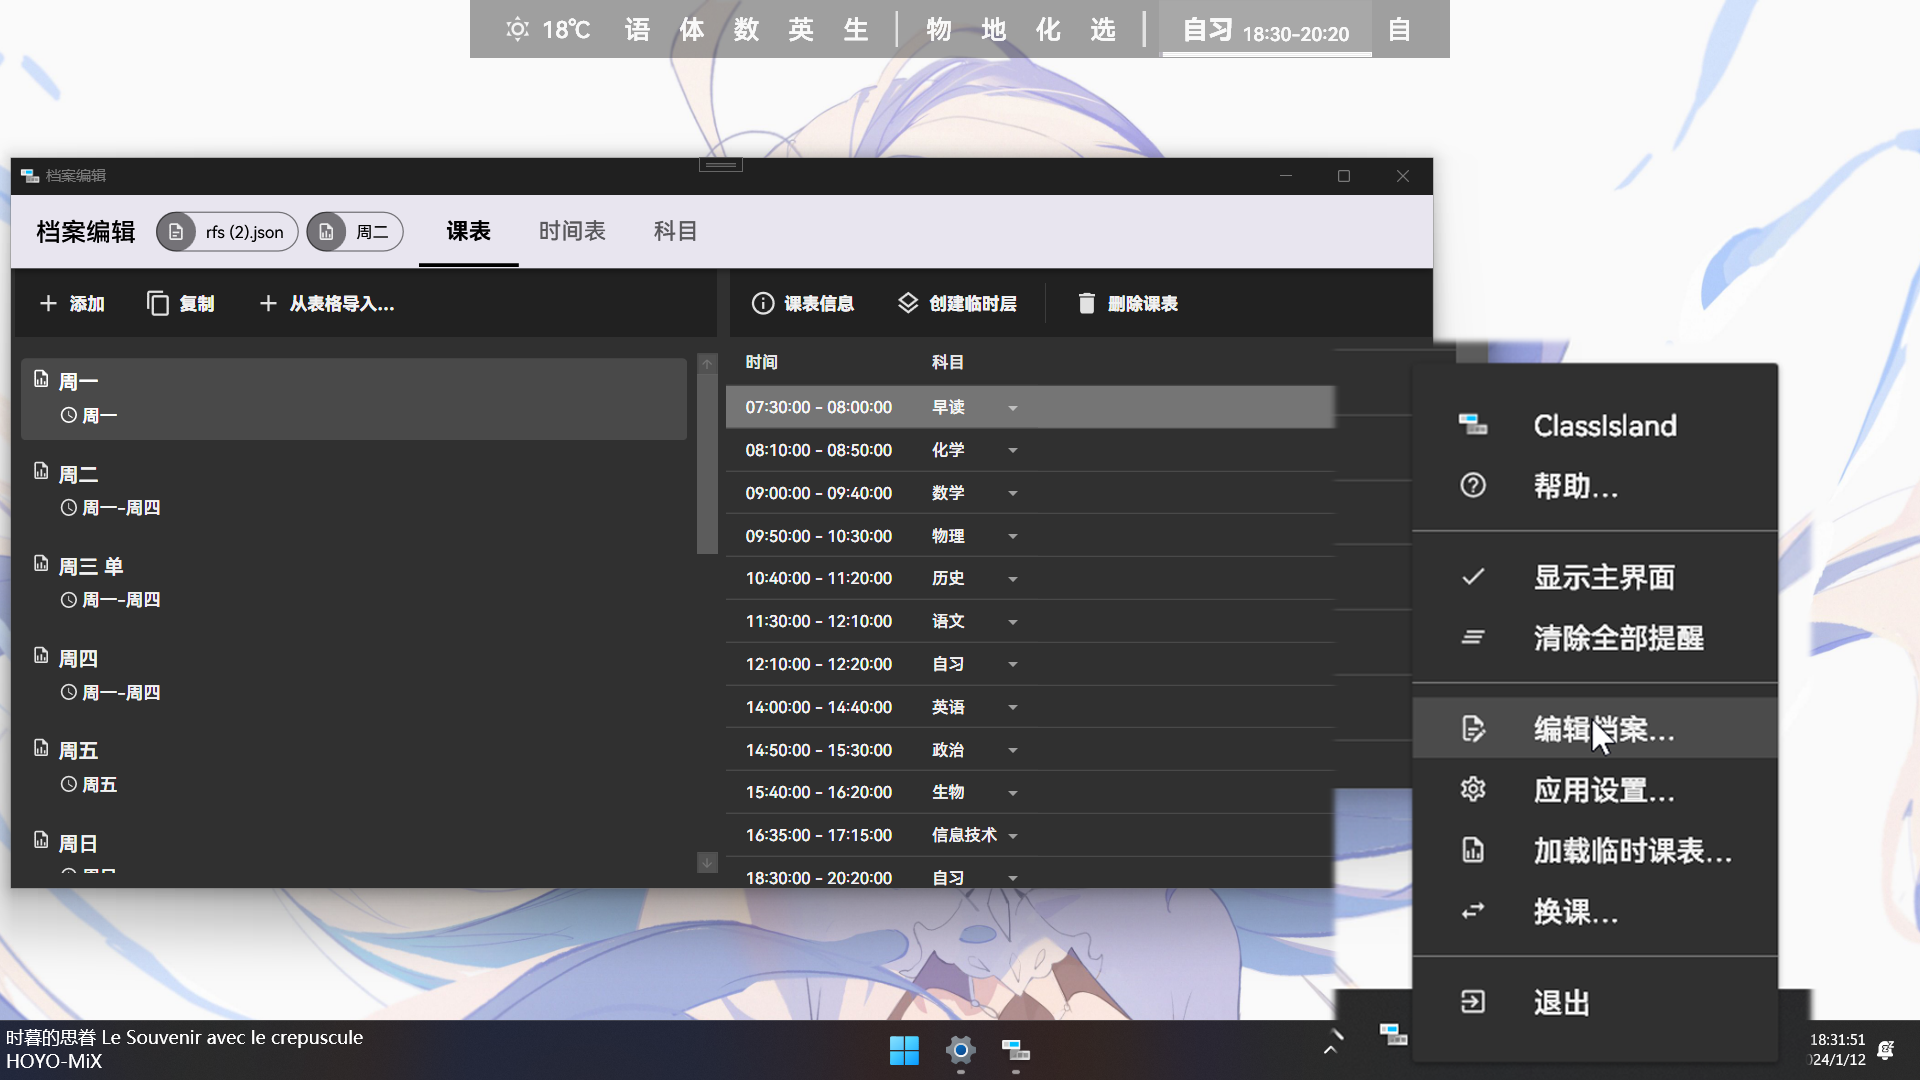
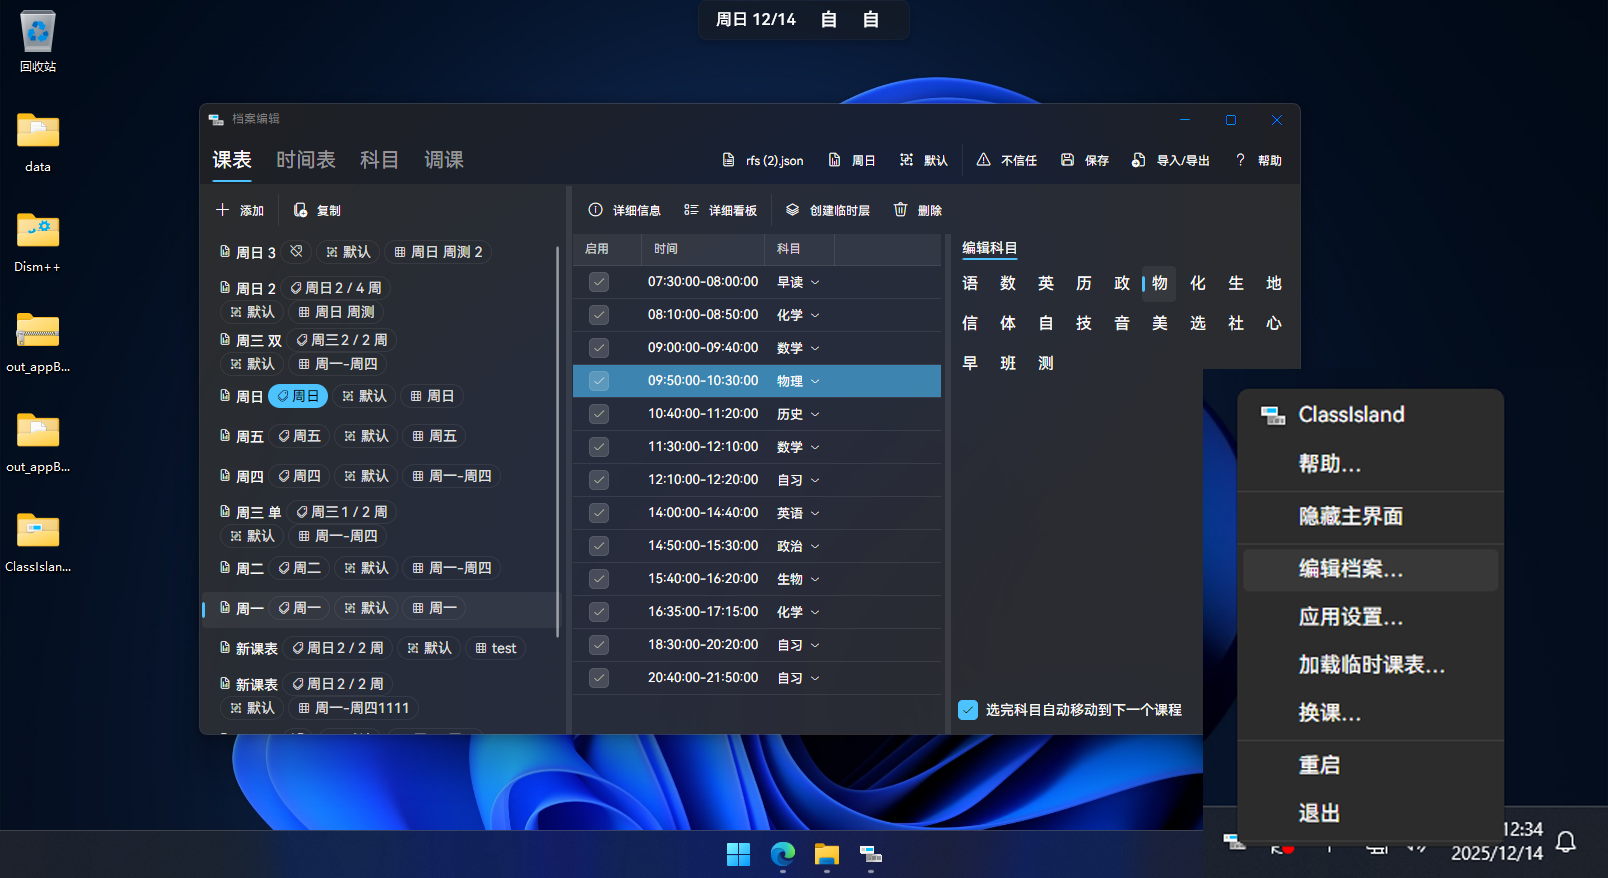
feat(ui/welcome): 添加基本使用指引

diff --git a/ClassIsland/Views/WelcomePages/FinishPage.axaml.cs b/ClassIsland/Views/WelcomePages/FinishPage.axaml.cs
@@ -1,5 +1,6 @@
 using Avalonia;
 using Avalonia.Controls;
+using Avalonia.Interactivity;
 using Avalonia.Markup.Xaml;
 
 namespace ClassIsland.Views.WelcomePages;
@@ -9,5 +10,22 @@ public partial class FinishPage : UserControl
     public FinishPage()
     {
         InitializeComponent();
+    }
+
+    private void ButtonNext_OnClick(object? sender, RoutedEventArgs e)
+    {
+        Carousel.SelectedIndex++;
+    }
+
+    private void ButtonPrevious_OnClick(object? sender, RoutedEventArgs e)
+    {
+        if (Carousel.SelectedIndex <= 0)
+        {
+            WelcomeWindow.WelcomeNavigateBackCommand.Execute(this);
+        }
+        else
+        {
+            Carousel.SelectedIndex--;
+        }
     }
 }